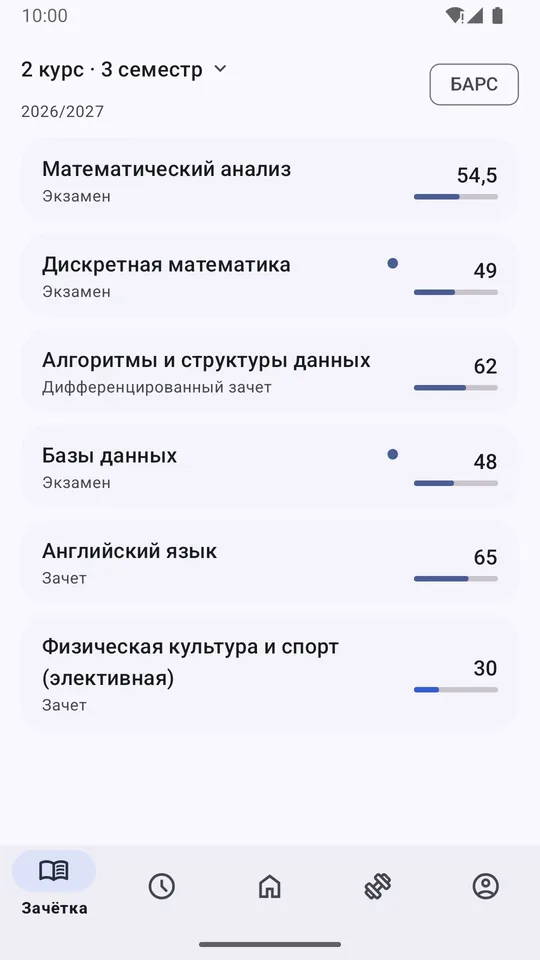
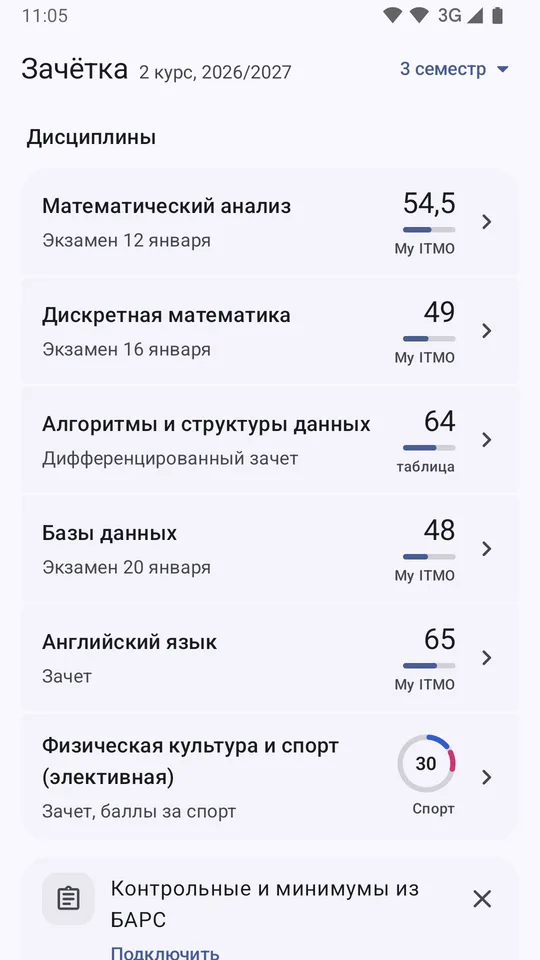
Landing screenshots from the 2.3 demo, with iPhone shots

diff --git a/site/index.html b/site/index.html
@@ -62,11 +62,7 @@
             <h2>Пары на сегодня — ещё до кофе</h2>
             <p>«Сегодня» показывает пару, на которую идти: аудиторию, адрес и сколько осталось, а ниже — весь день с изменениями, окнами и спортом. Виджеты «Пара», «Расписание на день», «Список пар» и «Спорт» — на Android и iPhone.</p>
           </div>
-          <div class="homescreen">
-            <figure class="w w-single"><picture><source srcset="/img/dark/widget_single_lesson_preview.webp" media="(prefers-color-scheme: dark)" data-dark><img src="/img/light/widget_single_lesson_preview.webp" alt="Виджет «Пара»" width="600" height="167" loading="lazy"></picture></figure>
-            <figure class="w w-list"><picture><source srcset="/img/dark/widget_lesson_list_preview.webp" media="(prefers-color-scheme: dark)" data-dark><img src="/img/light/widget_lesson_list_preview.webp" alt="Виджет «Список пар»" width="600" height="380" loading="lazy"></picture></figure>
-            <figure class="w w-qr"><img src="/img/light/widget_qr_code_preview.webp" alt="Виджет «QR&#8209;код»" width="300" height="300" loading="lazy"></figure>
-          </div>
+          <div class="shots"><figure class="device"><picture><source srcset="/img/dark/widgets.webp" media="(prefers-color-scheme: dark)" data-dark><img src="/img/light/widgets.webp" alt="Галерея виджетов: «Пара» и «Расписание на день»" width="540" height="960" loading="lazy"></picture></figure></div>
         </div>
       </article>
       <article class="step" id="t1">
@@ -77,7 +73,7 @@
             <h2>Пропуск в одно касание</h2>
             <p>QR-код на «Сегодня» и с ярлыка на значке приложения. На Android — ещё виджет и плитка в шторке, на iPhone — Пункт управления, экран блокировки и кнопка действия. Последний код открывается без сети.</p>
           </div>
-          <div class="shots"><figure class="device"><picture><source srcset="/img/dark/qr.webp" media="(prefers-color-scheme: dark)" data-dark><img src="/img/light/qr.webp" alt="QR&#8209;пропуск" width="540" height="960" loading="lazy"></picture></figure></div>
+          <div class="shots"><figure class="device"><picture><source srcset="/img/dark/qr.webp" media="(prefers-color-scheme: dark)" data-dark><img src="/img/light/qr.webp" alt="Пропуск: QR&#8209;код, имя, группа и ИСУ" width="540" height="960" loading="lazy"></picture></figure><figure class="device"><picture><source srcset="/img/dark/ios-pass.webp" media="(prefers-color-scheme: dark)" data-dark><img src="/img/light/ios-pass.webp" alt="Пропуск на iPhone" width="540" height="960" loading="lazy"></picture></figure></div>
         </div>
       </article>
       <article class="step" id="t2">
@@ -88,7 +84,7 @@
             <h2>Аудитория, маршрут и друзья на паре</h2>
             <p>Лента дней с записями на спорт среди пар. В карточке пары — аудитория и корпус, ссылки к предмету, друзья на паре и «Маршрут» на карте кампуса: аудитория на своём этаже и путь до неё. Расписание работает без сети, а об изменениях приложение сообщит.</p>
           </div>
-          <div class="shots"><figure class="device"><picture><source srcset="/img/dark/schedule.webp" media="(prefers-color-scheme: dark)" data-dark><img src="/img/light/schedule.webp" alt="Лента расписания" width="540" height="960" loading="lazy"></picture></figure><figure class="device"><picture><source srcset="/img/dark/lesson.webp" media="(prefers-color-scheme: dark)" data-dark><img src="/img/light/lesson.webp" alt="Карточка пары с друзьями на паре" width="540" height="960" loading="lazy"></picture></figure></div>
+          <div class="shots"><figure class="device"><picture><source srcset="/img/dark/lesson.webp" media="(prefers-color-scheme: dark)" data-dark><img src="/img/light/lesson.webp" alt="Карточка пары: аудитория, маршрут и друзья на паре" width="540" height="960" loading="lazy"></picture></figure><figure class="device"><picture><source srcset="/img/dark/ios-map.webp" media="(prefers-color-scheme: dark)" data-dark><img src="/img/light/ios-map.webp" alt="Карта кампуса на iPhone" width="540" height="960" loading="lazy"></picture></figure></div>
         </div>
       </article>
       <article class="step" id="t3">
@@ -99,7 +95,7 @@
             <h2>Пришла новая оценка</h2>
             <p>Колокольчик и уведомление с оценкой в заголовке. У каждого числа в зачётке подписан источник: БАРС, My ITMO или Google Таблица преподавателя. На странице предмета — баллы, пары и материалы: ссылки, чаты, очередь на защиту.</p>
           </div>
-          <div class="shots"><figure class="device"><picture><source srcset="/img/dark/recordbook.webp" media="(prefers-color-scheme: dark)" data-dark><img src="/img/light/recordbook.webp" alt="Зачётка за семестр" width="540" height="960" loading="lazy"></picture></figure><figure class="device"><picture><source srcset="/img/dark/subject.webp" media="(prefers-color-scheme: dark)" data-dark><img src="/img/light/subject.webp" alt="Страница предмета с баллами и материалами" width="540" height="960" loading="lazy"></picture></figure></div>
+          <div class="shots"><figure class="device"><picture><source srcset="/img/dark/recordbook.webp" media="(prefers-color-scheme: dark)" data-dark><img src="/img/light/recordbook.webp" alt="Зачётка: баллы и их источники" width="540" height="960" loading="lazy"></picture></figure><figure class="device"><picture><source srcset="/img/dark/subject.webp" media="(prefers-color-scheme: dark)" data-dark><img src="/img/light/subject.webp" alt="Страница предмета: баллы и лабораторные" width="540" height="960" loading="lazy"></picture></figure></div>
         </div>
       </article>
       <article class="step" id="t4">
@@ -110,7 +106,7 @@
             <h2>Что ждать от преподавателя</h2>
             <p>В карточке преподавателя — пара, которую он ведёт сейчас, ваши общие предметы, краткая ИИ-сводка и отзывы студентов. Отзывы анонимны по умолчанию, с отметкой «Вёл у автора»; общие отзывы и ссылки проверяют модераторы.</p>
           </div>
-          <div class="shots"><figure class="device"><picture><source srcset="/img/dark/teacher.webp" media="(prefers-color-scheme: dark)" data-dark><img src="/img/light/teacher.webp" alt="Сводка и отзывы о преподавателе" width="540" height="960" loading="lazy"></picture></figure></div>
+          <div class="shots"><figure class="device"><picture><source srcset="/img/dark/teacher.webp" media="(prefers-color-scheme: dark)" data-dark><img src="/img/light/teacher.webp" alt="ИИ-сводка и отзывы о преподавателе" width="540" height="960" loading="lazy"></picture></figure><figure class="device"><picture><source srcset="/img/dark/ios-teacher.webp" media="(prefers-color-scheme: dark)" data-dark><img src="/img/light/ios-teacher.webp" alt="Карточка преподавателя на iPhone" width="540" height="960" loading="lazy"></picture></figure></div>
         </div>
       </article>
       <article class="step" id="t5">
@@ -121,7 +117,7 @@
             <h2>Место на волейболе уже ваше</h2>
             <p>Поиск занятий по виду спорта и преподавателю, свободные места и друзья в строке, кольцо баллов. Очередь запишет на освободившееся место, а секция — на то же занятие каждые две недели.</p>
           </div>
-          <div class="shots"><figure class="device"><picture><source srcset="/img/dark/sport.webp" media="(prefers-color-scheme: dark)" data-dark><img src="/img/light/sport.webp" alt="Запись на спорт" width="540" height="960" loading="lazy"></picture></figure><figure class="device"><picture><source srcset="/img/dark/sport-mine.webp" media="(prefers-color-scheme: dark)" data-dark><img src="/img/light/sport-mine.webp" alt="Свои записи и баллы" width="540" height="960" loading="lazy"></picture></figure></div>
+          <div class="shots"><figure class="device"><picture><source srcset="/img/dark/sport.webp" media="(prefers-color-scheme: dark)" data-dark><img src="/img/light/sport.webp" alt="Запись на спорт: поиск, фильтры и свободные места" width="540" height="960" loading="lazy"></picture></figure><figure class="device"><picture><source srcset="/img/dark/sport-mine.webp" media="(prefers-color-scheme: dark)" data-dark><img src="/img/light/sport-mine.webp" alt="Моё: баллы за семестр и записи" width="540" height="960" loading="lazy"></picture></figure></div>
         </div>
       </article>
       <article class="step" id="t6">
@@ -133,7 +129,7 @@
             <p>«Чьё расписание» показывает, где сейчас друзья, а общие пары отмечены «Вы». Пары и спорт — в календаре телефона или в файле .ics. Кто видит ваше расписание, решаете вы.</p>
           </div>
           <div class="pair">
-            <figure class="device"><picture><source srcset="/img/dark/friends.webp" media="(prefers-color-scheme: dark)" data-dark><img src="/img/light/friends.webp" alt="Список друзей и заявки" width="540" height="960" loading="lazy"></picture></figure>
+            <figure class="device"><picture><source srcset="/img/dark/friends.webp" media="(prefers-color-scheme: dark)" data-dark><img src="/img/light/friends.webp" alt="Чьё расписание: где сейчас друзья" width="540" height="960" loading="lazy"></picture></figure>
             <div class="calendar" aria-label="Пары в календаре телефона">
               <div class="cal-head"><span>Календарь</span><span class="cal-chip">ITMO.Widgets</span></div>
               <ul>
@@ -156,6 +152,7 @@
             <p>В «Профиль → Устройства» по QR-коду подключаются веб-версия, <a href="https://github.com/alllexey-dev/itmo-widgets-agent">itmo-widgets-agent</a> и <a href="https://github.com/alllexey-dev/itmo-mcp">itmo-mcp</a>. Агент на компьютере или сервере записывает на спорт из очереди, MCP-сервер отвечает ИИ-ассистенту про пары и баллы. Вход ITMO.ID у каждого свой, пароль остаётся на телефоне.</p>
           </div>
           <div class="pair">
+            <figure class="device"><picture><source srcset="/img/dark/me.webp" media="(prefers-color-scheme: dark)" data-dark><img src="/img/light/me.webp" alt="Профиль со строкой «Устройства»" width="540" height="960" loading="lazy"></picture></figure>
             <div class="calendar" aria-label="Подключённые устройства">
               <div class="cal-head"><span>Устройства</span><span class="cal-chip">ITMO.Widgets</span></div>
               <ul>

diff --git a/site/style.css b/site/style.css
@@ -165,21 +165,6 @@ footer {
 }
 footer .unofficial { flex-basis: 100%; }
 
-/* Widgets on a home-screen backdrop. */
-.homescreen {
-  position: relative; min-height: 380px; border-radius: var(--radius); overflow: hidden;
-  background:
-    radial-gradient(circle at 20% 20%, rgba(58, 84, 136, 0.25), transparent 45%),
-    radial-gradient(circle at 80% 80%, rgba(58, 84, 136, 0.18), transparent 50%),
-    var(--surface-high);
-}
-.homescreen .w { position: absolute; margin: 0; }
-.homescreen .w img, .homescreen .w picture { display: block; width: 100%; height: auto; }
-.homescreen .w img { border-radius: 18px; box-shadow: 0 8px 24px rgba(0, 0, 0, 0.12); }
-.w-single { width: min(290px, 58%); left: 6%; top: 32px; }
-.w-list { width: min(290px, 58%); left: 6%; top: 128px; }
-.w-qr { width: min(124px, 25%); right: 6%; bottom: 36px; }
-
 /* Calendar export, drawn as the phone calendar would list the demo week. */
 .calendar {
   align-self: center; width: min(420px, 100%); padding: 20px; border-radius: var(--radius);
@@ -254,7 +239,6 @@ footer .unofficial { flex-basis: 100%; }
 .shots { display: flex; gap: 20px; justify-content: center; align-items: flex-start; height: 360px; padding-top: 36px; overflow: hidden; }
 .shots .device { width: 210px; flex-shrink: 0; }
 .shots .device:only-child { width: 240px; }
-.step .homescreen { margin: 28px 28px 28px 0; min-height: 340px; }
 .step-body:has(.pair) { grid-template-columns: 1fr 1.5fr; }
 .pair { display: flex; gap: 20px; align-items: flex-start; justify-content: center; height: 360px; padding: 36px 28px 0 0; overflow: hidden; }
 .pair .device { width: 170px; flex-shrink: 0; }
@@ -290,7 +274,6 @@ footer .unofficial { flex-basis: 100%; }
   .privacy ul { grid-template-columns: repeat(2, 1fr); }
   .step-body, .step-body:has(.pair) { grid-template-columns: 1fr; padding: 0 24px; gap: 0; }
   .step-text { padding: 28px 0 8px; }
-  .step .homescreen { margin: 16px -24px 0; border-radius: 0; }
   .pair { padding: 16px 0 0; height: auto; overflow: visible; flex-wrap: wrap; padding-bottom: 24px; }
 }
 @media (max-width: 760px) {
@@ -316,10 +299,6 @@ footer .unofficial { flex-basis: 100%; }
   .shots { height: 280px; padding-top: 16px; gap: 10px; }
   .shots .device { width: min(160px, 48%); }
   .shots .device:only-child { width: min(200px, 80%); }
-  .step .homescreen { margin: 16px -16px 0; min-height: 400px; }
-  .w-single, .w-list { width: 86%; left: 7%; }
-  .w-list { top: 110px; }
-  .w-qr { left: 7%; right: auto; top: 300px; bottom: auto; width: 84px; }
   .pair .device { width: min(180px, 70%); }
   .pair .calendar { flex-basis: 100%; }
 }

diff --git a/README.md b/README.md
@@ -84,28 +84,29 @@ Telegram или на почту, подтверждение входом в ве
 
 ## Скриншоты лендинга
 
-Снимки экранов — те же кадры демо-режима, что и для карточки Google Play: их
-снимает `StoreScreenshotCapture` из Android-проекта на вымышленных данных
-(1080 × 1920, светлая и тёмная тема, в `vibe/store-screenshots/{light,dark}/`
-репозитория приложения). Картинки виджетов снимает `WidgetPreviewImageCapture`
-(`vibe/store-screenshots/widgets/{light,night}/`). Реальных аккаунтов в кадрах
-нет.
+Снимки экранов — кадры демо-режима из `vibe/showcase/` репозитория приложения
+(описание каждого файла — в его `index.md`): Android `android/{light,dark}/`
+(1080 × 2400) и iPhone `ios/` (1206 × 2622, тёмные — с суффиксом `-dark`).
+Реальных аккаунтов в кадрах нет. Настройки и «Уведомления» на лендинг не
+берём: в демо они показывают «Сервер ITMO.Widgets: Не подключено».
 
 Имена файлов в `site/img/{light,dark}/` постоянные, поэтому обновлённые снимки
 просто заменяют старые:
 
 | Кадр | Файл |
 |---|---|
-| `01-home`, `02-schedule`, `03-lesson`, `04-recordbook`, `05-subject` | `home`, `schedule`, `lesson`, `recordbook`, `subject` |
-| `06-sport`, `07-sport-mine`, `08-teacher`, `09-friends`, `11-qr` | `sport`, `sport-mine`, `teacher`, `friends`, `qr` |
-| `widget_*_preview` | то же имя; QR-виджет — только светлый |
+| Android `02-today`, `06-schedule`, `09-lesson`, `13-recordbook`, `16-subject-scores` | `home`, `schedule`, `lesson`, `recordbook`, `subject` |
+| Android `24-sport-sign`, `20-sport-mine`, `31-teacher-reviews`, `11-friend-picker`, `28-me` | `sport`, `sport-mine`, `teacher`, `friends`, `me` |
+| Android `05-pass`, `40-widgets-more` | `qr`, `widgets` |
+| iPhone `04-pass`, `22-teacher`, `37-map` | `ios-pass`, `ios-teacher`, `ios-map` |
+
+Кадр обрезается сверху до 9:16 (у `ios-pass` — снизу, чтобы попал QR-код) и
+сжимается до 540 × 960:
 
 ```bash
-magick 01-home.png -resize 540x960 -quality 82 site/img/light/home.webp
-magick widget_lesson_list_preview.png -resize 600x -quality 82 site/img/dark/widget_lesson_list_preview.webp
+magick 02-today.png -gravity North -crop 1080x1920+0+0 +repage -resize 540x960 -quality 82 site/img/light/home.webp
+magick 04-pass-dark.png -gravity South -crop 1206x2144+0+0 +repage -resize 540x960 -quality 82 site/img/dark/ios-pass.webp
 ```
-
-Тёмные кадры виджетов берутся из `widgets/night/`, QR-виджет — `-resize 300x`.
 
 ## Локальный просмотр
 

diff --git a/CHANGELOG.md b/CHANGELOG.md
@@ -4,7 +4,7 @@ Dates are production deploys; before 2026-10-02 they are commit dates.
 
 ## Unreleased
 
-- The landing describes the 2.3 public beta: Android and iPhone, Сегодня, the Расписание feed, Зачётка sources, Спорт sections, the campus map, and a new "Ночь" step on Устройства with the web, itmo-widgets-agent and itmo-mcp. Downloads go to the Telegram channel and the GitHub Releases page; the iPhone notes (sideloading, no push, the agent) sit next to them. Screenshots are still the 2.2 frames.
+- The landing describes the 2.3 public beta: Android and iPhone, Сегодня, the Расписание feed, Зачётка sources, Спорт sections, the campus map, and a new "Ночь" step on Устройства with the web, itmo-widgets-agent and itmo-mcp. Downloads go to the Telegram channel and the GitHub Releases page; the iPhone notes (sideloading, no push, the agent) sit next to them. Screenshots are the 2.3 demo frames from Android and iPhone; the widget step shows the widget gallery instead of the 2.2 widget renders, which are gone.
 - The web is a connected client of the account (ITMO.Widgets connected clients plan, Backend `docs/contracts/connections.md`): `/app/login` shows a QR with the browser's key and a six-digit code to compare, the phone approves it in Профиль -> Устройства -> Подключить устройство, and Backend sets the `iw_client` cookie. Staff routes with an approval older than 7 days show a QR to confirm on the phone instead of a new sign-in. `Выйти` revokes the connection. The alpha sign-in (8-character codes, `/app/login?code=`) and the session refresh are removed. Needs Backend with connections; API types come from Backend 97f6a74 (PR #58, not on `master` yet).
 - Профиль -> Устройства (`/me/devices`) for a lost phone: connected browsers, agents and MCP servers with their access (narrowing only), disconnecting them, and signing out another phone's app from pushes. Scope texts come from Backend in the UI language.
 - `@alllexey/ui` 0.5.0: density tokens and a rail whose menu button and items stay centred on short windows. The site keeps the default density; app sizes of controls, rows and cards follow the density tokens. On a user's page the "своя сборка" pill of a client keeps its own width.
